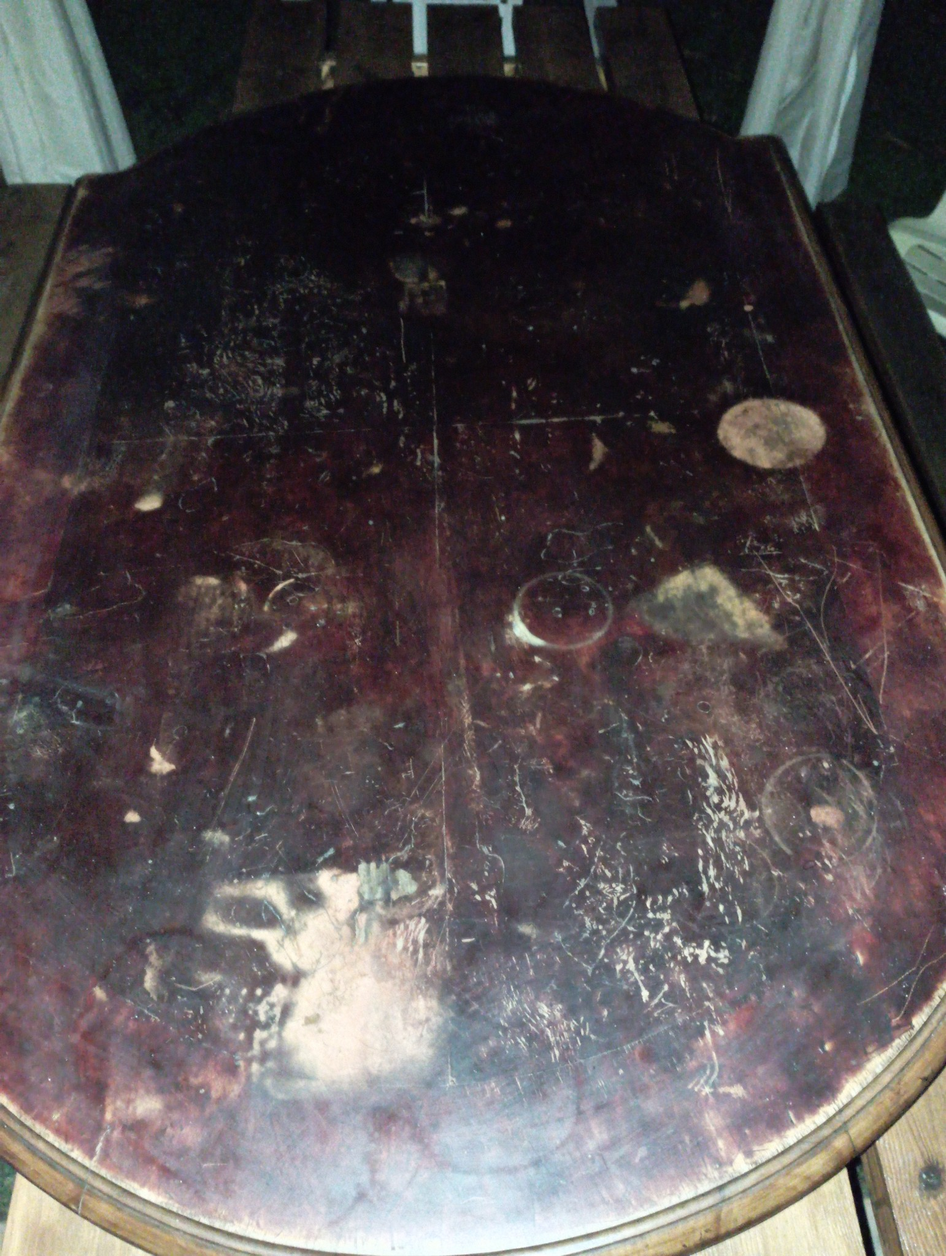
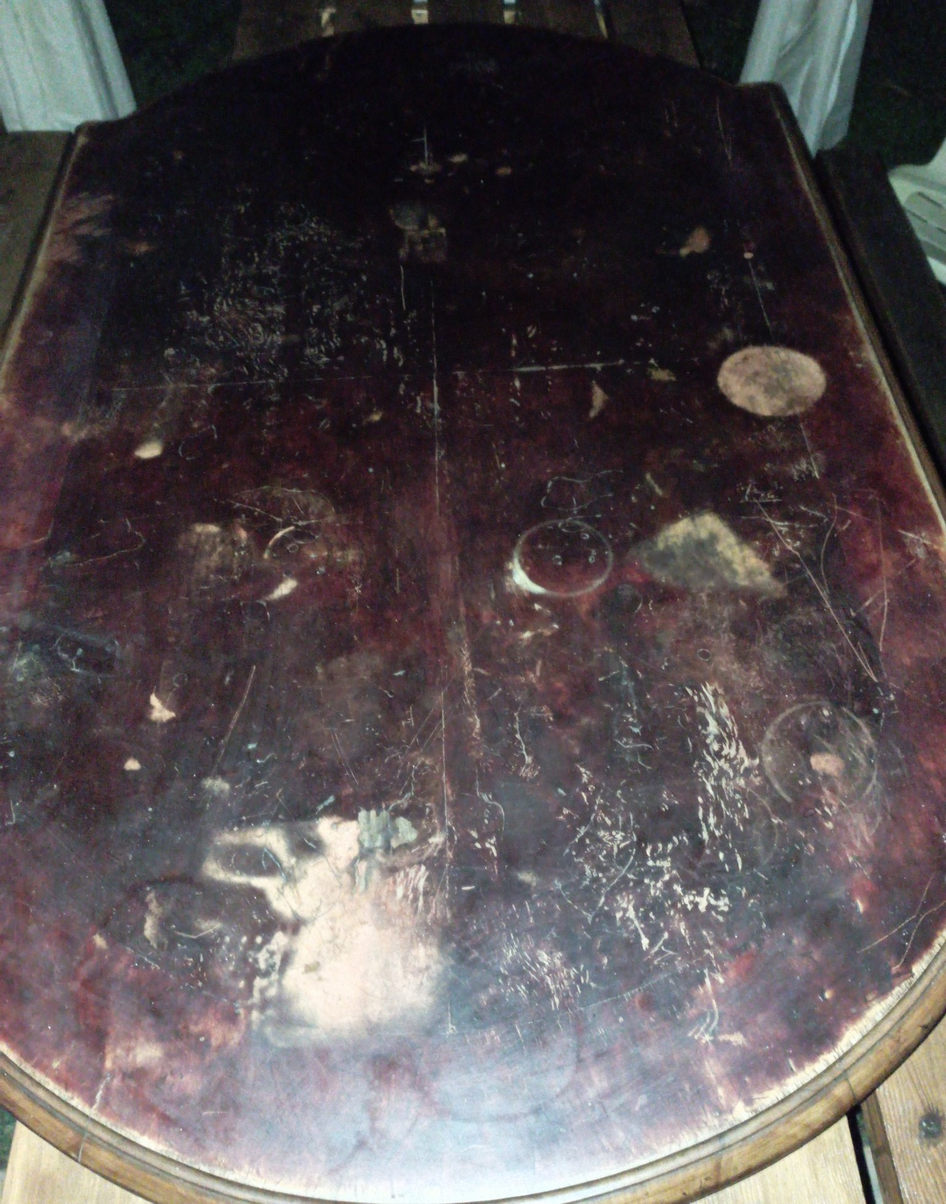
Renovations_tbc

diff --git a/src/components/Renovations/renovations.tsx b/src/components/Renovations/renovations.tsx
@@ -1,14 +1,50 @@
 import React from 'react';
 import './renovations.scss';
+import BeforeImageTableTop from '../../assets/renovation_table_top_before.jpg';
+import AfterImageTableTop from '../../assets/renovation_table_top_done.jpg';
 
 const Renovations: React.FC = () => {
-    return (
-      <div className='renovations_container'>
-        <h2 className='renovations_header'>Renowacje</h2>
-        <div className='renovations_text'>
-        <p>W tej sekcji znajdziesz wykonane przeze mnie renowacje różnych przedmiotów. Jeśli posiadasz coś starego i chcesz mu nadać nowy wygląd wykonuje takie usługi na zamówienie. Moje dotychczasowe renowacje:</p></div>
+  const renovations = [
+    {
+      before: BeforeImageTableTop,
+      after: AfterImageTableTop,
+      description: 'Blat stołu'
+    },
+    {
+      before: ,
+      after: ,
+      description: ''
+    },
+    
+  ];
+
+  return (
+    <div className='renovations_container'>
+      <h2 className='renovations_header'>Renowacje</h2>
+      <div className='renovations_text'>
+        <p>
+          W tej sekcji znajdziesz wykonane przeze mnie renowacje różnych przedmiotów. Jeśli posiadasz coś starego i chcesz mu nadać nowy wygląd wykonuje takie usługi na zamówienie. Moje dotychczasowe renowacje:
+        </p>
       </div>
-    );
-  };
-  
-  export default Renovations;
+      <div className='renovations_gallery'>
+        {renovations.map((renovation, index) => (
+          <div key={index} className='renovation_item'>
+            <div className='renovation_images'>
+              <div className='before'>
+                <img src={renovation.before} alt='Przed renowacją' />
+                <p className='caption'>Przed</p>
+              </div>
+              <div className='after'>
+                <img src={renovation.after} alt='Po renowacji' />
+                <p className='caption'>Po</p>
+              </div>
+            </div>
+            <p className='renovation_description'>{renovation.description}</p>
+          </div>
+        ))}
+      </div>
+    </div>
+  );
+};
+
+export default Renovations;

diff --git a/src/components/Renovations/renovations.scss b/src/components/Renovations/renovations.scss
@@ -25,3 +25,52 @@
             text-align: center;
         }
 }
+
+.renovations_gallery {
+    display: flex;
+    flex-wrap: wrap;
+    justify-content: center;
+    gap: 40px;
+    padding: 20px;
+  }
+  
+  .renovation_item {
+    text-align: center;
+    max-width: 600px;
+  }
+  
+  .renovation_images {
+    display: flex;
+    justify-content: space-between;
+    margin-bottom: 20px;
+    margin-top: 30px;
+  }
+  
+  .before,
+  .after {
+    width: 48%;
+    height: 300px;
+    position: relative;
+  }
+  
+  .before img,
+  .after img {
+    width: 100%;
+    height: 100%;
+    object-fit: cover;
+    border: 3px solid $color-dark-gray;
+  }
+  
+  .caption {
+    text-align: center;
+    font-size: 20px;
+    color: $color-dark-gray;
+    margin-top: 5px;
+  }
+  
+  .renovation_description {
+    font-size: 24px;
+    color: $color-dark-gray;
+    margin-top: 60px;
+    margin-bottom: -20px;
+  }
